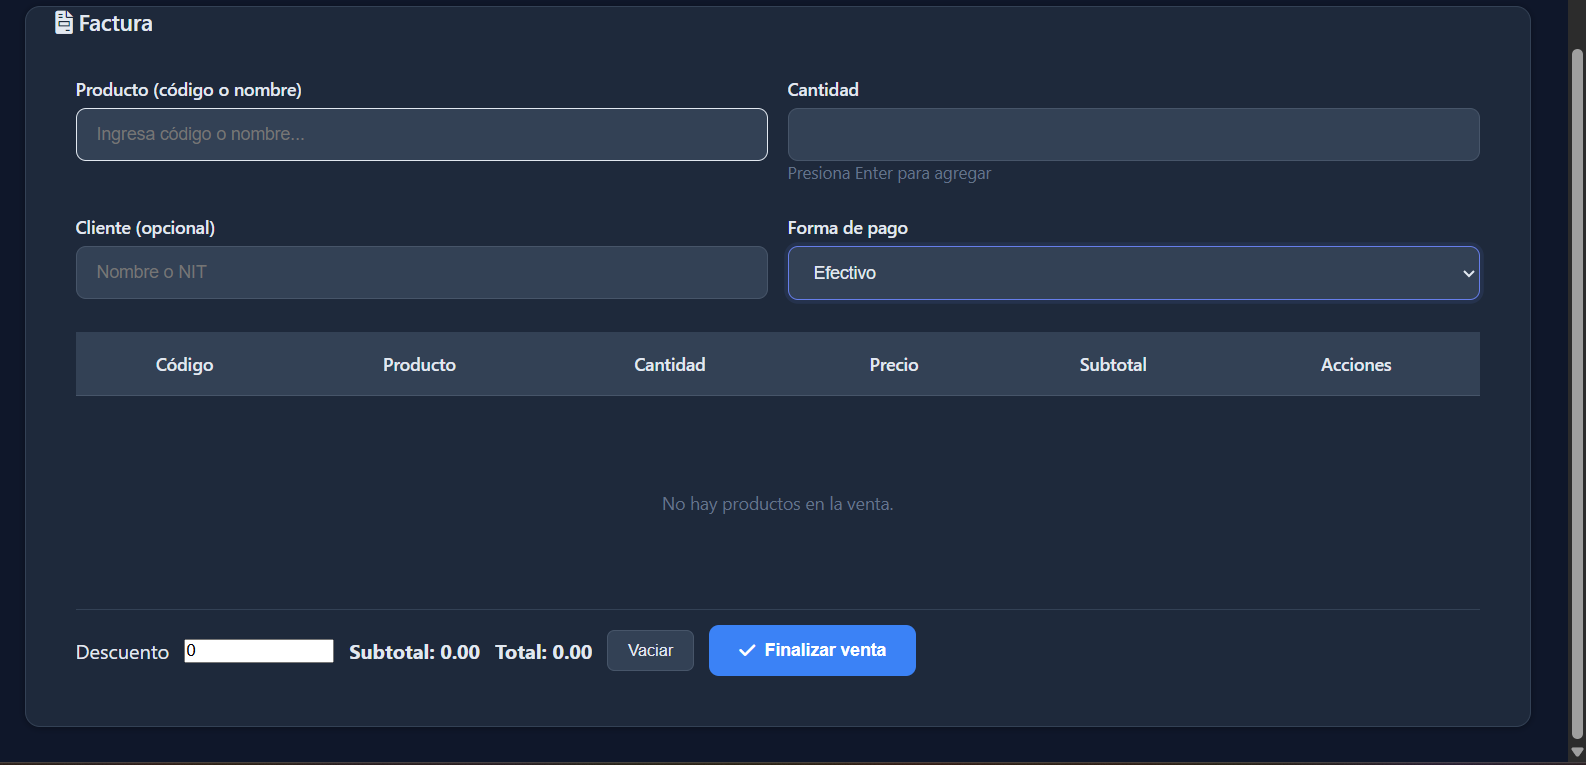
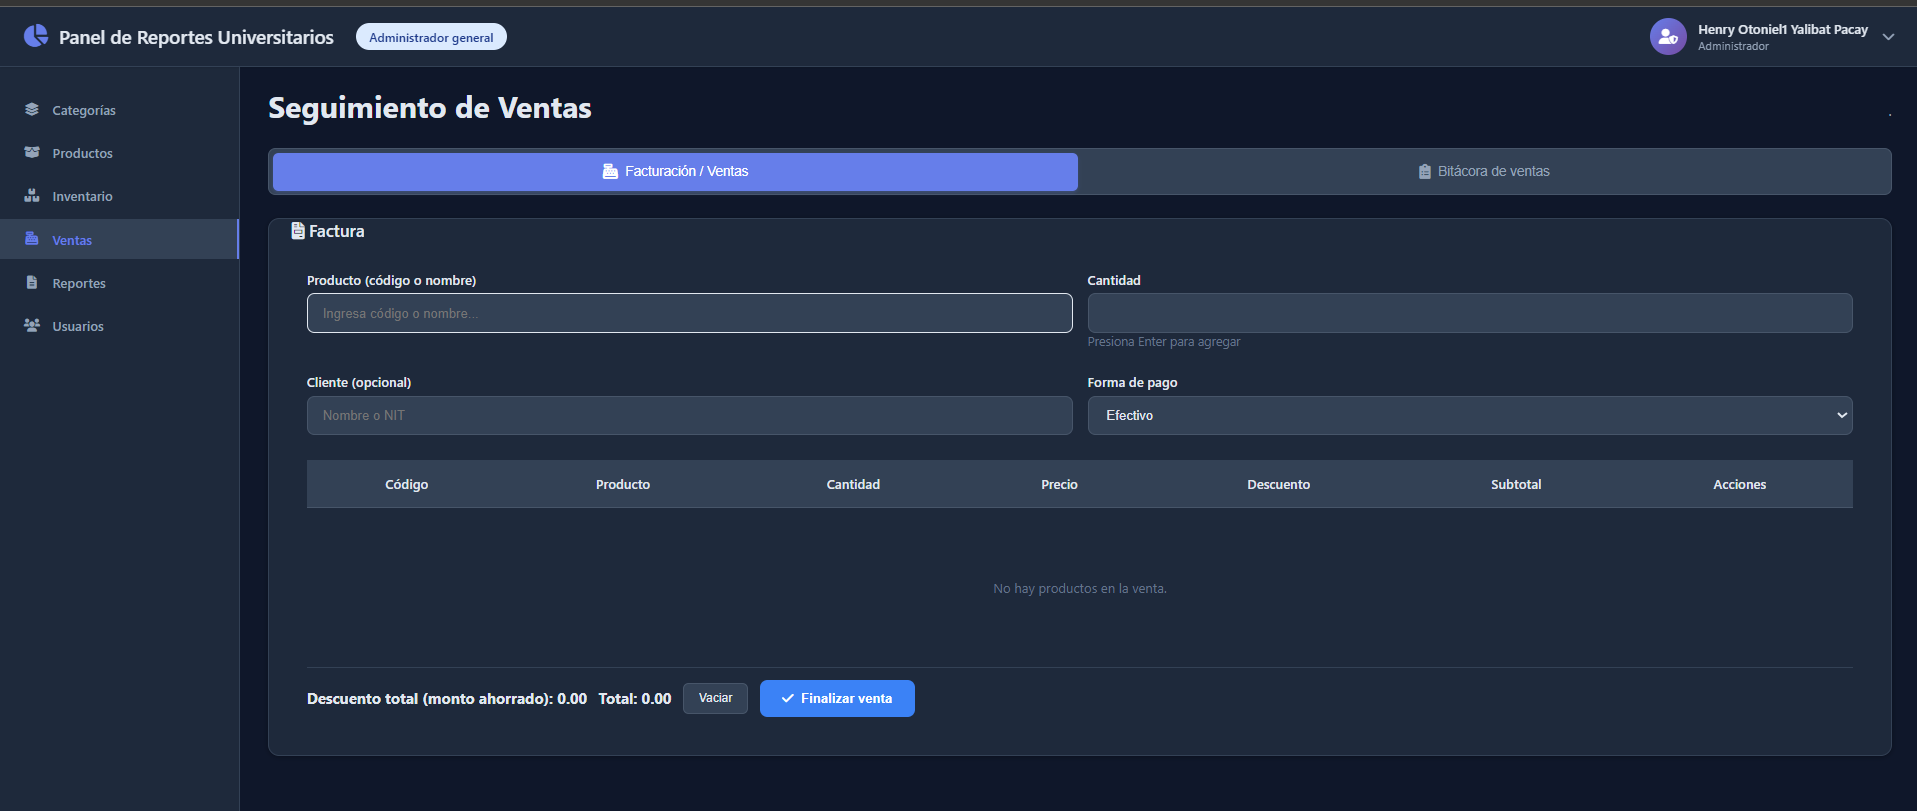
facturacon

diff --git a/public/js/dashboard-app.js b/public/js/dashboard-app.js
@@ -2827,15 +2827,27 @@ function initInventoryMovementsPagination() {
   }
 
   function setupPOS() {
-    const products = (DASHBOARD_DATA[role]?.productos?.list || DASHBOARD_DATA.admin?.productos?.list || []).map(p => ({ code: p.code, name: p.name }));
+    // Sugerencias desde backend (código o nombre)
     const input = document.getElementById('posProductInput');
     const box = document.getElementById('posProductResults');
-    invCreateAutocomplete(input, box, products, (prod) => {
+    invCreateAutocomplete(input, box, [], (prod) => {
       input.value = prod.code + ' | ' + prod.name;
       box.style.display = 'none';
       const qtyEl = document.getElementById('posQtyInput');
       if (qtyEl) qtyEl.focus();
-    }, { showOnFocus: false });
+    }, {
+      showOnFocus: false,
+      minChars: 1,
+      debounceMs: 180,
+      fetcher: async (term, { signal } = {}) => {
+        const q = encodeURIComponent(term || '');
+        const r = await fetch(`/api/productos/suggest?q=${q}`, { signal });
+        const d = await r.json().catch(() => ({}));
+        if (!r.ok || d.success === false) return [];
+        const items = Array.isArray(d.items) ? d.items : [];
+        return items.map(it => ({ code: it.code, name: it.name }));
+      }
+    });
 
     const cart = [];
     function renderCart() {
@@ -2847,13 +2859,15 @@ function initInventoryMovementsPagination() {
         return;
       }
       tbody.innerHTML = cart.map((it, idx) => {
-        const subtotal = (it.price || 0) * it.qty;
+        const unit = Number(it.price || 0);
+        const disc = Number(it.discount || 0);
+        const subtotal = (unit * (1 - (disc/100))) * it.qty;
         return `<tr>
           <td>${it.code}</td>
           <td>${it.name}</td>
           <td><input type=\"number\" class=\"cart-qty\" data-index=\"${idx}\" min=\"1\" value=\"${it.qty}\" style=\"width:80px; padding:6px 8px; border:1px solid #e2e8f0; border-radius:6px;\"></td>
-          <td></td>
-          <td class=\"cart-discount\">—</td>
+          <td>${unit.toFixed(2)}</td>
+          <td class=\"cart-discount\">${disc ? (disc.toFixed(2) + '%') : '—'}</td>
           <td>${subtotal.toFixed(2)}</td>
           <td><button type=\"button\" class=\"btn btn-secondary btn-sm\" data-remove=\"${idx}\"><i class=\"fas fa-trash\"></i></button></td>
         </tr>`;
@@ -2880,7 +2894,7 @@ function initInventoryMovementsPagination() {
       updateTotals();
     }
 
-    function sumSubtotal() { return cart.reduce((acc, it) => acc + (it.price || 0) * it.qty, 0); }
+    function sumSubtotal() { return cart.reduce((acc, it) => acc + (Number(it.price||0) * (1 - (Number(it.discount||0)/100))) * it.qty, 0); }
     function updateTotals() {
       const subtotal = sumSubtotal();
       const disc = parseFloat(document.getElementById('salesDiscount')?.value || '0') || 0;
@@ -2893,14 +2907,40 @@ function initInventoryMovementsPagination() {
 
     document.getElementById('salesDiscount')?.addEventListener('input', updateTotals);
 
-    function addFromQtyEnter() {
+    async function addFromQtyEnter() {
       const val = (input?.value || '').trim();
       const qty = parseInt(document.getElementById('posQtyInput')?.value || '0', 10);
       if (!val) return invSetMessage('salesPOSMessage', 'error', 'Selecciona un producto.');
       if (!qty || qty <= 0) return invSetMessage('salesPOSMessage', 'error', 'Ingresa una cantidad vlida.');
       const code = val.split('|')[0].trim();
-      const found = products.find(p => p.code === code) || { code, name: val.replace(/^.*\|/, '').trim() };
-      cart.push({ code: found.code, name: found.name, qty, price: 0 });
+      try {
+        // Si ya existe en carrito, sumar cantidad
+        const existing = cart.find(it => it.code === code);
+        if (existing) {
+          existing.qty += qty;
+          invClearMessage('salesPOSMessage');
+          renderCart();
+          const q = document.getElementById('posQtyInput'); if (q) q.value = '';
+          input.value = '';
+          return;
+        }
+        // Obtener detalles reales del producto
+        const resp = await fetch(`/api/productos/${encodeURIComponent(code)}`);
+        const data = await resp.json().catch(() => ({}));
+        if (!resp.ok || data.success === false || !data.product) {
+          // fallback: usar lo que se ve en el input
+          const name = val.includes('|') ? val.split('|')[1].trim() : val;
+          cart.push({ code, name, qty, price: 0, discount: 0 });
+        } else {
+          const p = data.product;
+          const price = Number(p.precioVenta || p.precio || 0) || 0;
+          const discount = Number(p.descuento || 0) || 0;
+          cart.push({ code: p.codigo || code, name: p.nombre || '', qty, price, discount });
+        }
+      } catch(_) {
+        const name = val.includes('|') ? val.split('|')[1].trim() : val;
+        cart.push({ code, name, qty, price: 0, discount: 0 });
+      }
       invClearMessage('salesPOSMessage');
       renderCart();
       const q = document.getElementById('posQtyInput'); if (q) q.value = '';
